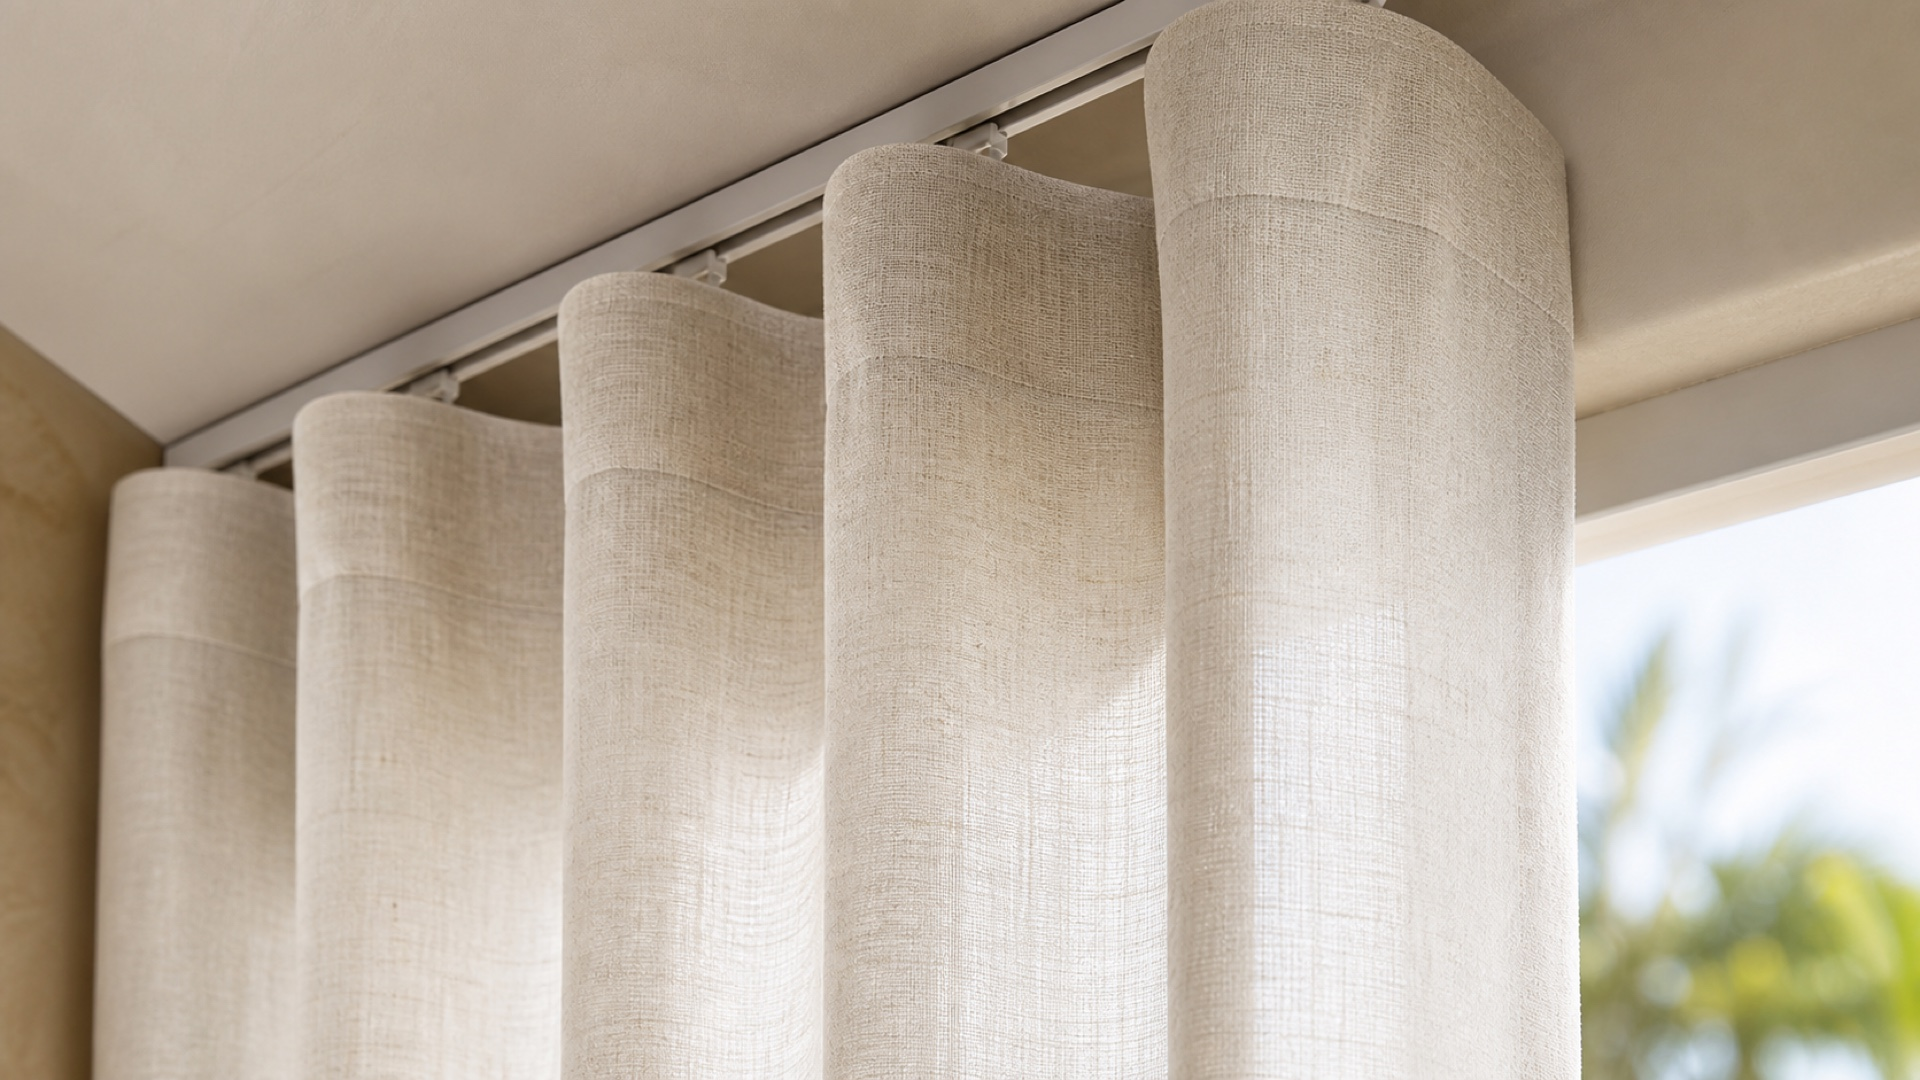
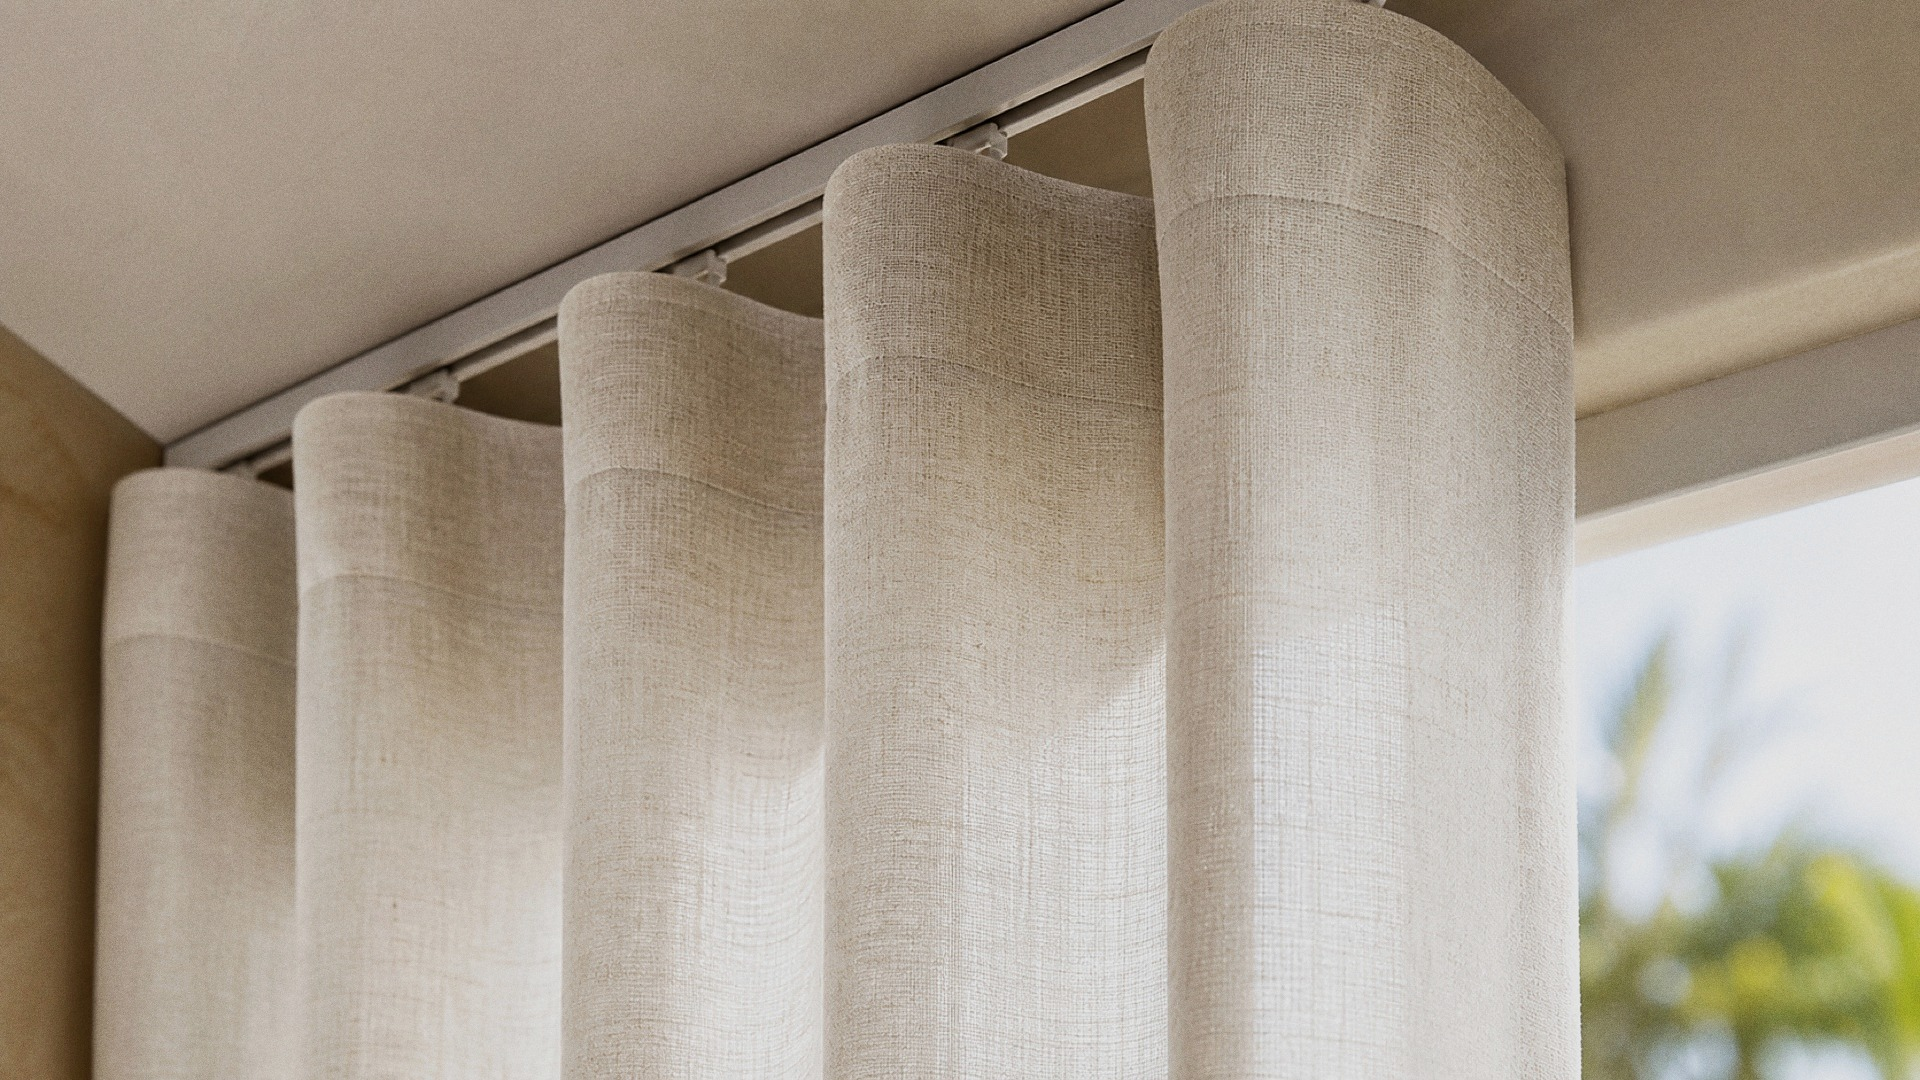
Apply photographic realism grade to AI images
Run the light preset over the AI-generated imagery to reduce the sterile
over-processed look: film grain, filmic tone curve, desaturate the AI
tint, soften micro-crispness, and a subtle vignette so they read as real
camera captures. Same compositions and filenames; no code refs changed.

- 21 shutter-portfolio tiles (louvers, materials, doors, specialty, styles)
- 8 manifest-tagged AI product previews (7 drapery close-ups + home theater)
- Adds scripts/realism_grade.py (Pillow, --inplace --intensity light|medium|strong)
  so the grade can be re-run or re-tuned in one command

diff --git a/scripts/realism_grade.py b/scripts/realism_grade.py
@@ -1,0 +1,153 @@
+#!/usr/bin/env python3
+"""Photographic post-grade to take the "AI" edge off existing images.
+
+Keeps the same composition/pixels; only applies surface-level realism:
+soften over-crisp micro-texture, re-sharpen naturally, filmic color grade,
+desaturate the AI over-tint, gentle vignette, and film grain. Re-encodes
+as a realistic JPEG. Does NOT add people or fix structural AI artifacts.
+
+Usage:
+  python3 scripts/realism_grade.py <outdir> <file> [<file> ...]
+
+All intensity knobs live in the PRESET below so they can be tuned in one place.
+"""
+
+import sys
+from pathlib import Path
+
+from PIL import Image, ImageEnhance, ImageFilter, ImageDraw, ImageOps, ImageChops
+
+# ---------------------------------------------------------------------------
+# Intensity presets. Pick one via --intensity light|medium|strong.
+# ---------------------------------------------------------------------------
+PRESETS = {
+    "light": {
+        "soft_radius": 0.4, "sharp_radius": 1.0, "sharp_percent": 60, "sharp_threshold": 3,
+        "saturation": 0.94, "contrast": 1.03, "brightness": 0.995,
+        "filmic_strength": 0.22, "vignette_strength": 0.10, "grain_sigma": 7, "jpeg_quality": 92,
+    },
+    "medium": {
+        "soft_radius": 0.5, "sharp_radius": 1.0, "sharp_percent": 70, "sharp_threshold": 3,
+        "saturation": 0.90, "contrast": 1.05, "brightness": 0.99,
+        "filmic_strength": 0.35, "vignette_strength": 0.18, "grain_sigma": 11, "jpeg_quality": 90,
+    },
+    "strong": {
+        "soft_radius": 0.7, "sharp_radius": 1.1, "sharp_percent": 80, "sharp_threshold": 3,
+        "saturation": 0.85, "contrast": 1.08, "brightness": 0.985,
+        "filmic_strength": 0.45, "vignette_strength": 0.25, "grain_sigma": 16, "jpeg_quality": 88,
+    },
+}
+PRESET = PRESETS["medium"]  # mutated by --intensity at runtime
+
+
+def _filmic_curve(img, strength):
+    """Blend toward an S-curve: deeper shadows, rolled-off highlights."""
+    lut = []
+    for i in range(256):
+        x = i / 255.0
+        # smoothstep-ish S-curve centered at midtone
+        curved = x * x * (3 - 2 * x)
+        lut.append(int(round((curved * 255) * strength + i * (1 - strength))))
+    # PIL applies LUT per-channel on "L"; for RGB apply to each channel via split
+    channels = img.split()
+    graded = Image.merge("RGB", tuple(ch.point(lut) for ch in channels))
+    return graded
+
+
+def _vignette(img, strength):
+    w, h = img.size
+    overlay = Image.new("RGB", (w, h), (0, 0, 0))
+    mask = Image.new("L", (w, h), 0)
+    d = ImageDraw.Draw(mask)
+    d.ellipse([-w * 0.25, -h * 0.25, w * 1.25, h * 1.25], fill=255)
+    mask = mask.filter(ImageFilter.GaussianBlur(min(w, h) * 0.22))
+    darkened = Image.composite(img, overlay, ImageOps.invert(mask))
+    return Image.blend(img, darkened, strength)
+
+
+def _grain(img, sigma):
+    if sigma <= 0:
+        return img
+    w, h = img.size
+    # effect_noise -> L with ~gaussian distribution around 128
+    noise = Image.effect_noise((w, h), sigma).convert("RGB")
+    # overlay of neutral-gray noise = subtle film grain (identity at 128)
+    return ImageChops.overlay(img, noise)
+
+
+def grade_image(img):
+    img = img.convert("RGB")
+    # 1. kill the over-crisp AI micro-texture, then re-sharpen edges naturally
+    img = img.filter(ImageFilter.GaussianBlur(radius=PRESET["soft_radius"]))
+    img = img.filter(
+        ImageFilter.UnsharpMask(
+            radius=PRESET["sharp_radius"],
+            percent=PRESET["sharp_percent"],
+            threshold=PRESET["sharp_threshold"],
+        )
+    )
+    # 2. color: desaturate the AI tint, gentle contrast/brightness
+    img = ImageEnhance.Color(img).enhance(PRESET["saturation"])
+    img = ImageEnhance.Contrast(img).enhance(PRESET["contrast"])
+    img = ImageEnhance.Brightness(img).enhance(PRESET["brightness"])
+    # 3. filmic tone curve
+    img = _filmic_curve(img, PRESET["filmic_strength"])
+    # 4. edge vignette (lens character)
+    img = _vignette(img, PRESET["vignette_strength"])
+    # 5. film grain (the biggest "real sensor" tell)
+    img = _grain(img, PRESET["grain_sigma"])
+    return img
+
+
+def main():
+    global PRESET
+    args = [a for a in sys.argv[1:]]
+    inplace = False
+    if "--inplace" in args:
+        inplace = True
+        args = [a for a in args if a != "--inplace"]
+    intensity = "medium"
+    if args and args[0].startswith("--intensity="):
+        intensity = args[0].split("=", 1)[1]
+        args = args[1:]
+    elif len(args) >= 2 and args[0] == "--intensity":
+        intensity = args[1]
+        args = args[2:]
+    if intensity not in PRESETS:
+        print(f"unknown intensity '{intensity}' (use light|medium|strong)", file=sys.stderr)
+        sys.exit(2)
+    PRESET = PRESETS[intensity]
+    if not inplace and len(args) < 2:
+        print("usage: realism_grade.py [--inplace] [--intensity light|medium|strong] <outdir> <file> [<file> ...]", file=sys.stderr)
+        sys.exit(2)
+    if inplace and len(args) < 1:
+        print("usage: realism_grade.py --inplace [--intensity light|medium|strong] <file> [<file> ...]", file=sys.stderr)
+        sys.exit(2)
+    if not inplace:
+        outdir = Path(args[0])
+        outdir.mkdir(parents=True, exist_ok=True)
+        files = args[1:]
+    else:
+        files = args
+    for path in files:
+        src = Path(path)
+        if not src.exists():
+            print(f"skip (missing): {src}", file=sys.stderr)
+            continue
+        with Image.open(src) as im:
+            out = grade_image(im)
+        if inplace:
+            dest = src
+            ext = src.suffix.lower()
+            if ext in (".jpg", ".jpeg"):
+                out.save(dest, "JPEG", quality=PRESET["jpeg_quality"], optimize=True)
+            else:
+                out.save(dest, "PNG", optimize=True)
+        else:
+            dest = outdir / (src.stem + ".jpg")
+            out.save(dest, "JPEG", quality=PRESET["jpeg_quality"], optimize=True)
+        print(f"graded [{intensity}]: {src} -> {dest}")
+
+
+if __name__ == "__main__":
+    main()
